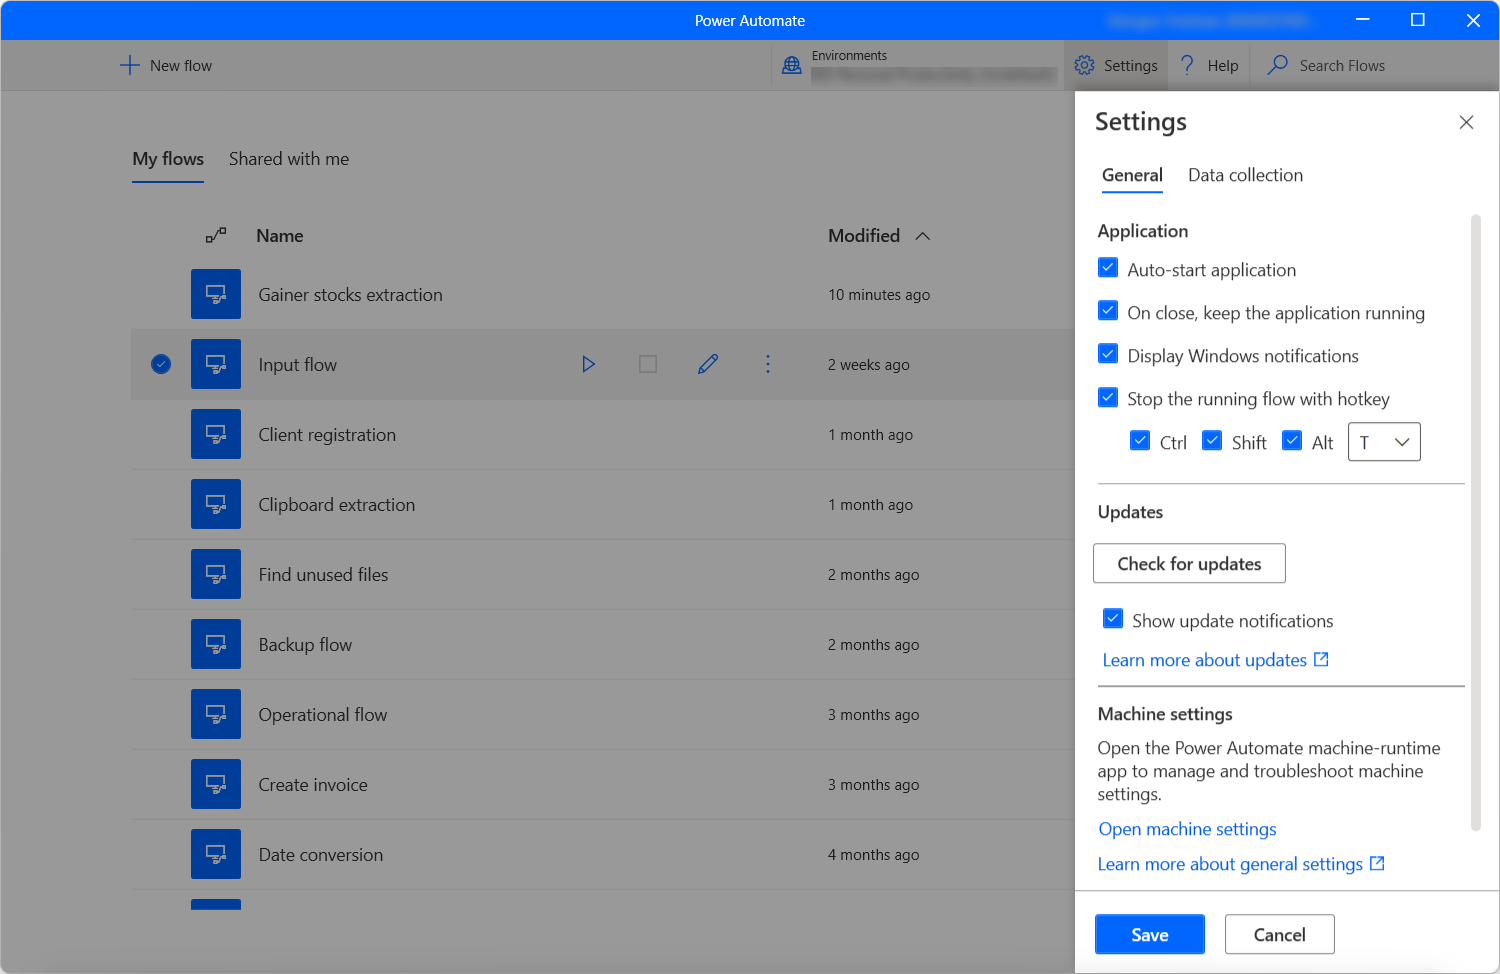
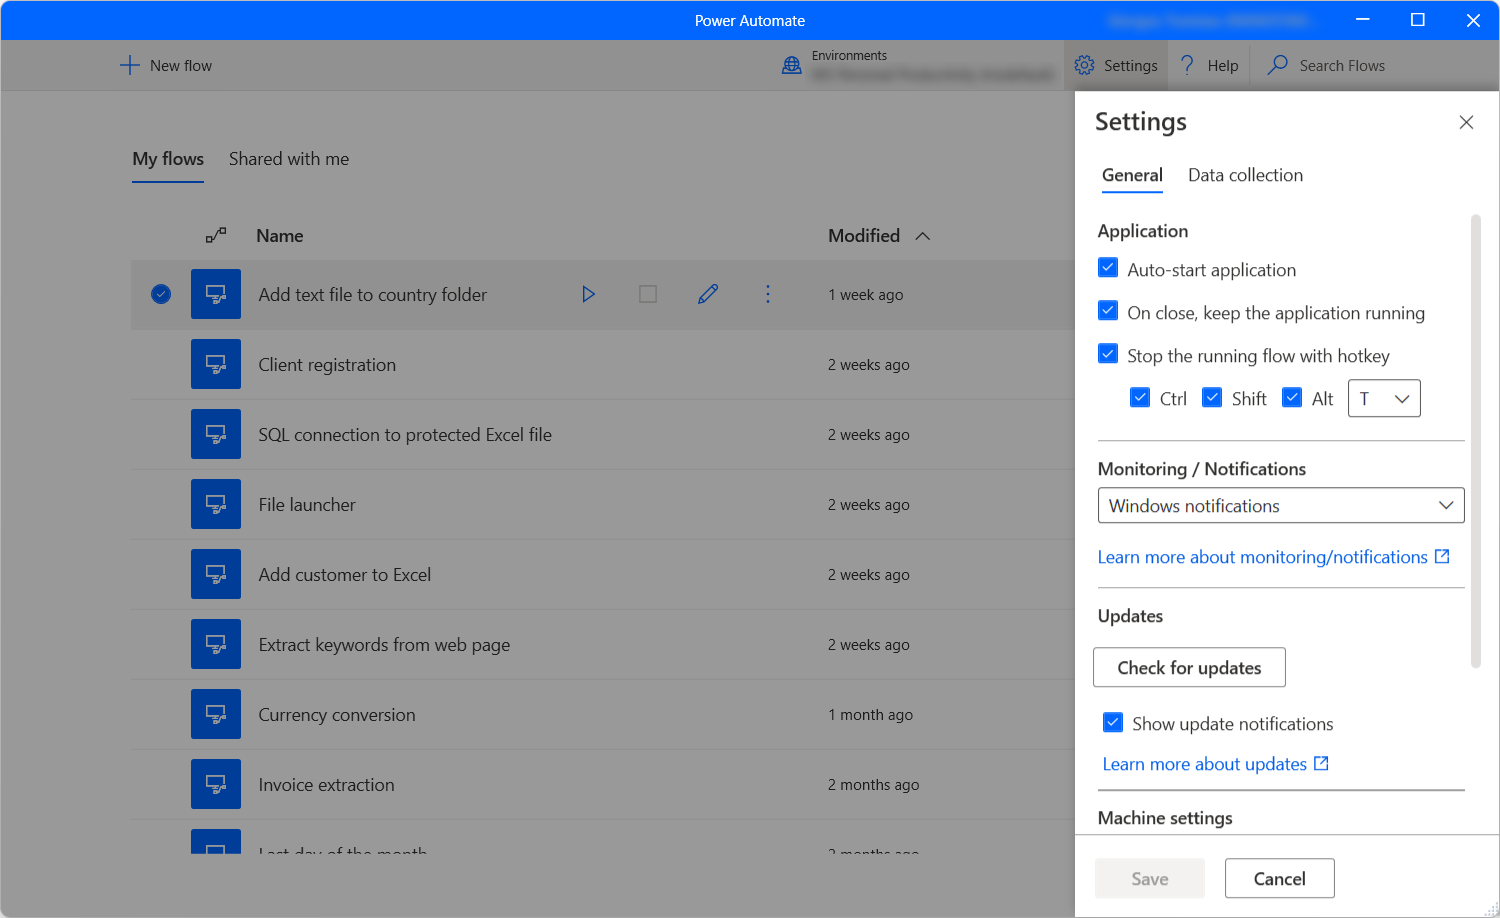
Updates for new flow monitoring window

diff --git a/articles/desktop-flows/run-pad-flow.md b/articles/desktop-flows/run-pad-flow.md
@@ -179,12 +179,24 @@ Some of your desktop flows might run for long durations (e.g. more than 24 hours
 
 ## Runtime notifications
 
-A notification popup appears by default when a desktop flow is downloading or running, when it is cancelled, when it finishes running successfully, or when it encounters an error.
-
-![Screenshot of a notification window.](\media\run-pad-flow\notification-window.png)
+Power Automate provides two different types of notifications while running a desktop flow depending on the user's preferences. 
 
 > [!NOTE]
 > Runtime notifications are displayed when a flow is run directly from the console. When a flow is run from the portal, Power Automate doesn't display notifications.
 
+Through the **Monitoring/Notifications** option of the console settings, you can choose between the integrated Windows notifications, the flow monitoring window, or disabling the notifications.
+
+The **Windows notifications** option displays a Windows notification pop-up when a desktop flow is running, paused, stopped, finished running successfully, or encountered an error. Additionally, the notification popup enables users to pause or stop the flow through the respective button. 
+
+![Screenshot of a notification window.](media\run-pad-flow\notification-window.png)
+
+The **Flow monitoring window** option provides the same functionality as the windows notifications, while it offers some additional functionality.
+
+Instead of displaying separate notifications for each desktop flow, the monitoring window displays the state of all the running flows in a single window. Further, it shows which subflow and action are running at any given time for each desktop flow. If an error occurs, you can copy the error details directly through the monitoring window for easier debugging.
+
+> [NOTE]
+> When Power Automate pop-up dialogs appear, like input variable dialogs or update notifications, users can't interact with the flow monitoring windows until they close the displayed dialog.
+
+![Screenshot of the flow monitoring window.](media\run-pad-flow\flow-monitoring-window.png)
 
 [!INCLUDE[footer-include](../includes/footer-banner.md)]

diff --git a/articles/desktop-flows/console.md b/articles/desktop-flows/console.md
@@ -50,9 +50,11 @@ Press the **Settings** button to configure Power Automate for desktop to your li
 
 ![Screenshot of the console settings panel.](./media/console/console-settings-panel.png)
 
-Under the **Application** category, select whether Power Automate should launch automatically, whether closing the console will close the application as well, and whether Power Automate should be able to display Windows notifications. You may also set a hotkey combination to instantly stop a running flow.
+Under the **Application** category, select whether Power Automate should launch automatically, whether closing the console will close the application as well. You may also set a hotkey combination to instantly stop a running flow.
 
-Decide whether Microsoft may collect diagnostic data to improve user experience under **Data collection**. 
+Using the **Monitoring/Notifications** drop-down menu, you can choose whether Power Automate will display integrated windows notification, a custom monitoring window, or no notifications at all. To find more information regarding Power Automate notifications, refer to [Runtime notifications](run-pad-flow.md#runtime-notifications).
+
+To decide whether Microsoft may collect diagnostic data to improve user experience, navigate to the **Data collection** settings tab. 
 
 >[!NOTE]
 >Only an admin may change Data collection settings.
